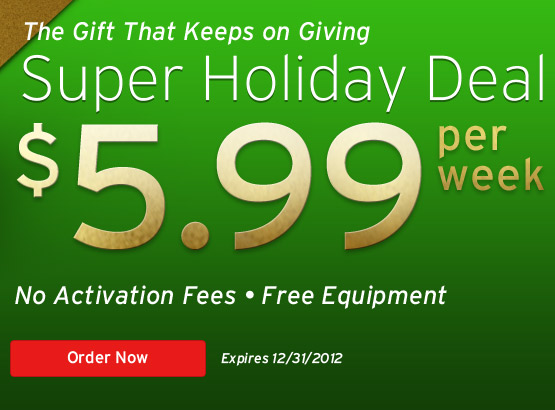
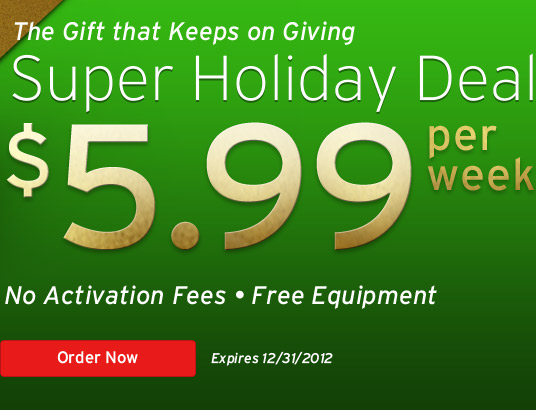
fixed hero image

diff --git a/src/apps/common/static/css/local-pages.css b/src/apps/common/static/css/local-pages.css
@@ -331,7 +331,7 @@ body{background-image:url(../img/local-pages/city-partly-cloudy-day-left.jpg),ur
 #top-content #top-hero-banner #touchscreen-banner #touchscreen-banner-content .button-submit,#top-content-holiday #top-hero-banner #touchscreen-banner #touchscreen-banner-content .button-submit{text-align:center;}#top-content #top-hero-banner #touchscreen-banner #touchscreen-banner-content .button-submit a,#top-content-holiday #top-hero-banner #touchscreen-banner #touchscreen-banner-content .button-submit a{font-size:16px;padding:4px 48px;}
 #top-content.black-friday,#top-content-holiday.black-friday{background:#590035 url(/static/img/banners/hero-banners/cyber-monday-bg.png) repeat-x;}#top-content.black-friday #copper-flash,#top-content-holiday.black-friday #copper-flash{top:0;}
 #top-content-holiday{background:#ffffff url(/static/img/banners/hero-banners/holiday-banner/green-bg.jpg) repeat-x;}#top-content-holiday #green-bow{position:absolute;left:-410px;top:-8px;}
-#top-content-holiday #top-hero-banner #copper-flash{position:relative;left:76px;top:-8px;}
+#top-content-holiday #top-hero-banner #copper-flash{position:relative;left:86px;top:-8px;}
 .wrapper{background:rgba(255, 255, 255, 0.85);padding:0;}.wrapper .call-box{margin:0;}
 #top-content .wrapper{background:transparent;}#top-content .wrapper #quote-form{margin-left:0;}
 #quick-link-navigation li .fb-like{position:relative;top:4px;text-align:right;}

diff --git a/src/apps/common/static/css/home.css b/src/apps/common/static/css/home.css
@@ -246,7 +246,7 @@ ul#child-navigation li.active{background:none;}ul#child-navigation li.active.act
 #top-content #top-hero-banner #touchscreen-banner #touchscreen-banner-content .button-submit,#top-content-holiday #top-hero-banner #touchscreen-banner #touchscreen-banner-content .button-submit{text-align:center;}#top-content #top-hero-banner #touchscreen-banner #touchscreen-banner-content .button-submit a,#top-content-holiday #top-hero-banner #touchscreen-banner #touchscreen-banner-content .button-submit a{font-size:16px;padding:4px 48px;}
 #top-content.black-friday,#top-content-holiday.black-friday{background:#590035 url(/static/img/banners/hero-banners/cyber-monday-bg.png) repeat-x;}#top-content.black-friday #copper-flash,#top-content-holiday.black-friday #copper-flash{top:0;}
 #top-content-holiday{background:#ffffff url(/static/img/banners/hero-banners/holiday-banner/green-bg.jpg) repeat-x;}#top-content-holiday #green-bow{position:absolute;left:-410px;top:-8px;}
-#top-content-holiday #top-hero-banner #copper-flash{position:relative;left:76px;top:-8px;}
+#top-content-holiday #top-hero-banner #copper-flash{position:relative;left:86px;top:-8px;}
 .outlined-box{border:1px solid #cccccc;padding-bottom:16px;}.outlined-box h2{background:#d9f2ff;padding:8px;border-bottom:1px solid #cccccc;font-weight:normal;}
 .outlined-box h3{padding-left:8px;}
 .outlined-box p{padding:0 8px;}

diff --git a/src/templates/index.html b/src/templates/index.html
@@ -136,7 +136,7 @@ valueOf()+(h?'&utmxhash='+escape(h.substr(1)):'')+
     {% if request.GET.agent == 'a01986' or request.COOKIES.refer_id == 'a01986' %}
     {% include "banners/tcr-hero-images.html" %}
     {% else %}
-    {% include "banners/seo-hero-images.html" %}
+    {% include "banners/holiday-hero-image.html" %}
     {% endif %}
 {% endblock %}
 <div class="wrapper">

diff --git a/src/apps/common/static/less/banners/hero-images.less b/src/apps/common/static/less/banners/hero-images.less
@@ -295,7 +295,7 @@
     #top-hero-banner {
         #copper-flash {
             position: relative;
-            left: 76px;
+            left: 86px;
             top: -8px;
         }
 
